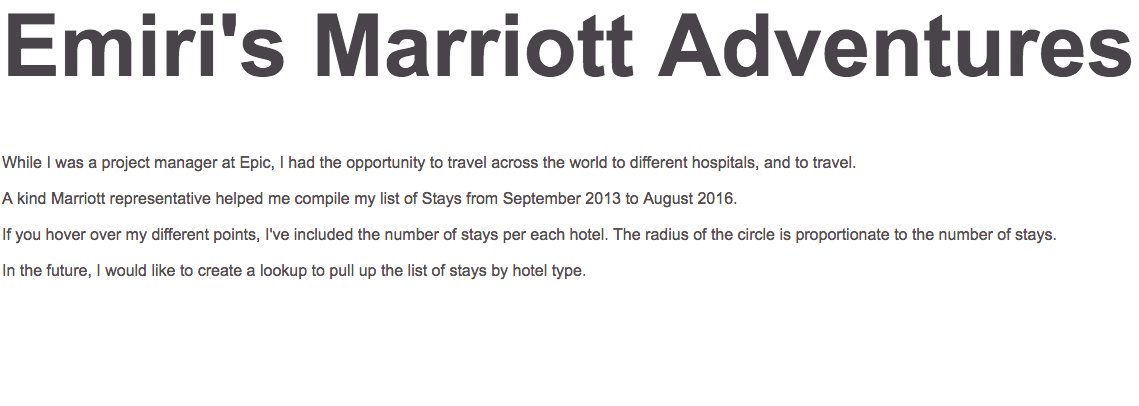
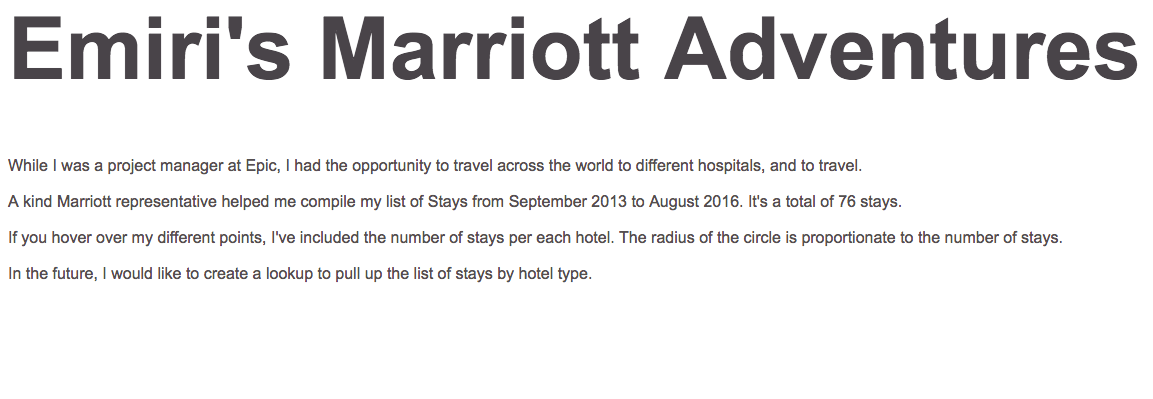
Changed opening paragraph to add total number of stays.

Changed region(s): [[0.0, 0.3609, 0.9219, 0.7218], [0.0, 0.0301, 0.5838, 0.2105], [0.5838, 0.0301, 1.0, 0.2105]]

diff --git a/MarriotMap.html b/MarriotMap.html
@@ -18,7 +18,7 @@
   <h1> Emiri's Marriott Adventures</h1>
 
   <p> While I was a project manager at Epic, I had the opportunity to travel across the world to different hospitals, and to travel.
-  <br></br>A kind Marriott representative helped me compile my list of Stays from September 2013 to August 2016.
+  <br></br>A kind Marriott representative helped me compile my list of Stays from September 2013 to August 2016. It's a total of 76 stays.
   <br></br> If you hover over my different points, I've included the number of stays per each hotel. The radius of the circle is proportionate to the number of stays.
   <br></br> In the future, I would like to create a lookup to pull up the list of stays by hotel type.</p>
   <br></br>
@@ -112,7 +112,7 @@
 
       var countScale = d3.scaleSqrt();
       marriottWorldCountArray.forEach(function(d){
-        
+
           svg1.append("circle")
             .attr("cx", projection([d.Latitude, d.Longitude])[0] )
             .attr("cy", projection([d.Latitude, d.Longitude])[1] )
